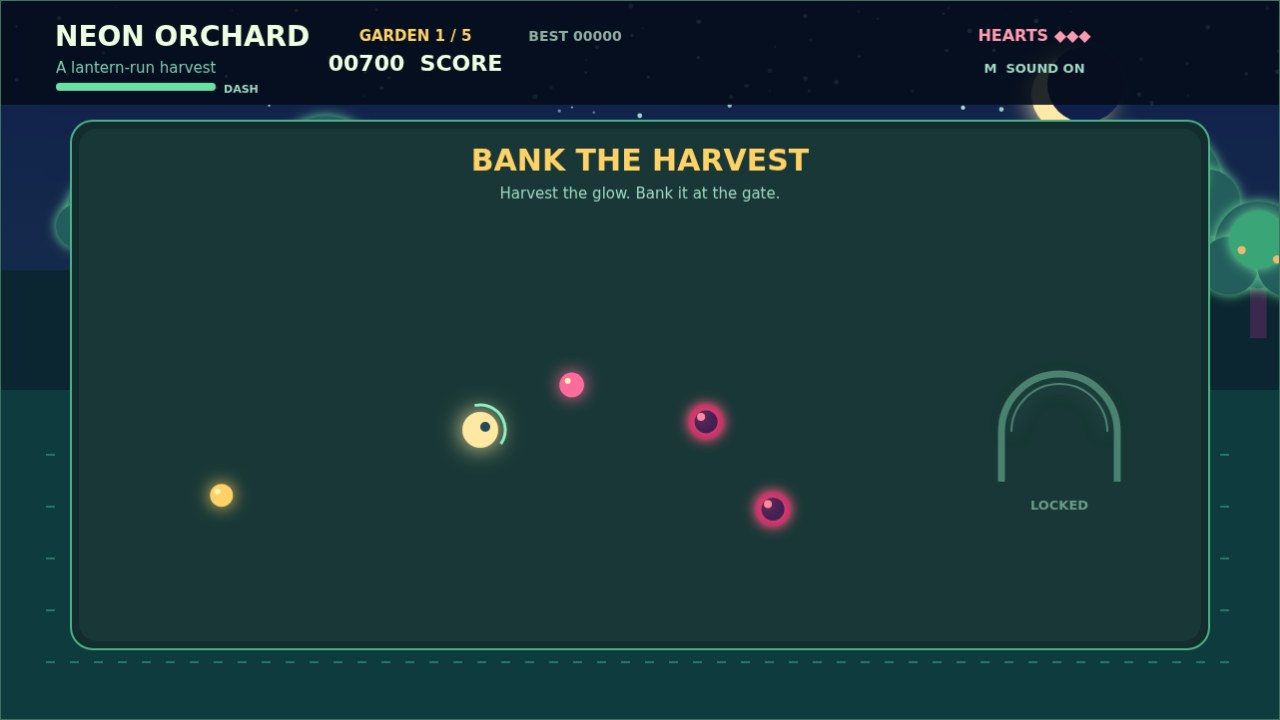
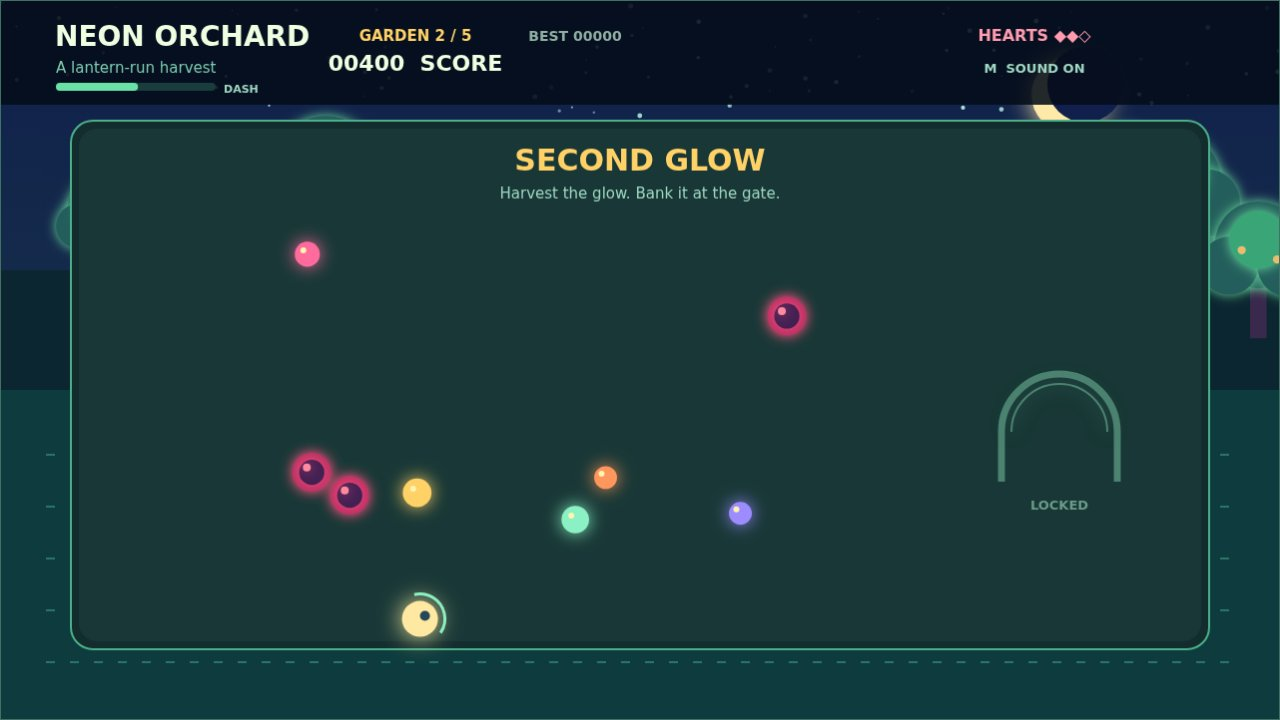
Fix game completion and preview responses; capture normal-play evidence

diff --git a/game/js/game.js b/game/js/game.js
@@ -7,14 +7,14 @@ const keys=new Set();let state='title',last=performance.now(),elapsed=0,level=1,
 const shot=new URLSearchParams(location.search).get('shot');
 function reset(){state='play';elapsed=0;level=1;score=0;hearts=3;player={x:260,y:460,r:18,stamina:100,invuln:0};harvests=spawnHarvests(level);vines=spawnVines(level);particles=[];banner='FIRST BLOOM';bannerTime=2;sound.start()}
 function start(){if(state==='title'||state==='over'||state==='win')reset()}
-window.addEventListener('keydown',e=>{keys.add(e.code);if(['Space','ArrowUp','ArrowDown','ArrowLeft','ArrowRight'].includes(e.code))e.preventDefault();if(e.code==='Enter')start();if(e.code==='KeyM')sound.toggle()});window.addEventListener('keyup',e=>keys.delete(e.code));canvas.addEventListener('pointerdown',()=>{sound.start();if(state!=='play')start()});
+window.addEventListener('keydown',e=>{keys.add(e.code);if(['Space','ArrowUp','ArrowDown','ArrowLeft','ArrowRight'].includes(e.code))e.preventDefault();if(e.code==='Enter')start();if(e.code==='KeyM')sound.toggle()});window.addEventListener('keyup',e=>keys.delete(e.code));window.addEventListener('blur',()=>keys.clear());canvas.addEventListener('pointerdown',()=>{sound.start();if(state!=='play')start()});
 function burst(x,y,color){for(let i=0;i<14;i++)particles.push({x,y,vx:(Math.random()-.5)*130,vy:(Math.random()-.5)*130,life:.6,color})}
-function nextLevel(){level++;if(level>5){state='win';best=Math.max(best,score);localStorage.setItem('neon-orchard-best',best);sound.win();return}harvests=spawnHarvests(level);vines=spawnVines(level);player.x=260;player.y=460;banner=['SECOND GLOW','DEEPER SHADE','VINE CRESCENDO','FINAL HARVEST'][level-2];bannerTime=2;sound.bank()}
+function nextLevel(){if(level===5){state='win';best=Math.max(best,score);localStorage.setItem('neon-orchard-best',best);sound.win();return}level++;harvests=spawnHarvests(level);vines=spawnVines(level);player.x=260;player.y=460;banner=['SECOND GLOW','DEEPER SHADE','VINE CRESCENDO','FINAL HARVEST'][level-2];bannerTime=2;sound.bank()}
 function update(dt){if(state!=='play')return;elapsed+=dt;player.invuln=Math.max(0,player.invuln-dt);let dx=0,dy=0;if(keys.has('KeyA')||keys.has('ArrowLeft'))dx--;if(keys.has('KeyD')||keys.has('ArrowRight'))dx++;if(keys.has('KeyW')||keys.has('ArrowUp'))dy--;if(keys.has('KeyS')||keys.has('ArrowDown'))dy++;const dash=keys.has('Space')&&player.stamina>0;const speed=dash?390:210;if(dash&& (dx||dy)){player.stamina=Math.max(0,player.stamina-dt*55);if(Math.random()<dt*8)sound.dash()}else player.stamina=Math.min(100,player.stamina+dt*25);const mag=Math.hypot(dx,dy)||1;player.x=clamp(player.x+dx/mag*speed*dt,PLAY.x+25,PLAY.x+PLAY.w-25);player.y=clamp(player.y+dy/mag*speed*dt,PLAY.y+25,PLAY.y+PLAY.h-25);for(const v of vines)v.update(dt,player);for(const h of harvests)if(!h.taken&&hitDistance(player,h)<player.r+h.r+5){h.taken=true;score+=100*level;burst(h.x,h.y,h.color);sound.collect()}if(harvests.every(h=>h.taken)&&hitDistance(player,{x:1060,y:430})<100)nextLevel();for(const v of vines)if(player.invuln<=0&&hitDistance(player,v)<player.r+v.r*.7){hearts--;player.invuln=1.4;burst(player.x,player.y,'#ff557f');sound.hit();if(hearts<=0){state='over';best=Math.max(best,score);localStorage.setItem('neon-orchard-best',best)}}for(const p of particles){p.x+=p.vx*dt;p.y+=p.vy*dt;p.life-=dt}particles=particles.filter(p=>p.life>0);bannerTime=Math.max(0,bannerTime-dt)}
 function hud(){const c=ctx;c.fillStyle='rgba(5,13,25,.88)';c.fillRect(0,0,W,104);label(c,'NEON ORCHARD',54,45,28,'#efffe1','left','800');label(c,'A lantern-run harvest',55,72,15,'#7bcbb0','left','500');label(c,`GARDEN ${level} / 5`,415,40,15,'#ffd166','center','800');label(c,`${score.toString().padStart(5,'0')}  SCORE`,415,70,22,'#efffe1','center','800');label(c,`BEST ${best.toString().padStart(5,'0')}`,575,40,14,'#8faea3','center','600');label(c,`HEARTS ${'◆'.repeat(hearts)}${'◇'.repeat(3-hearts)}`,1035,40,16,'#ff9bb0','center','800');label(c,sound.muted?'M  SOUND OFF':'M  SOUND ON',1035,72,13,'#9ed7c2','center','600');c.fillStyle='#193c3c';rounded(c,55,82,160,8,4);c.fillStyle='#69e0a6';rounded(c,55,82,160*(player.stamina/100),8,4);label(c,'DASH',223,92,11,'#9ed7c2','left','700')}
 function playerDraw(){const c=ctx;if(player.invuln>0&&Math.floor(player.invuln*12)%2===0)return;glow(c,'#fff0a6',24);c.fillStyle='#ffe8a1';circle(c,player.x,player.y,player.r);clearGlow(c);c.fillStyle='#26485b';circle(c,player.x+5,player.y-3,5);c.strokeStyle='#8bf0c3';c.lineWidth=3;c.beginPath();c.arc(player.x,player.y,player.r+7,-1.8,.6);c.stroke()}
-function overlay(title,sub,cta){const c=ctx;c.fillStyle='rgba(4,12,26,.8)';c.fillRect(0,0,W,H);glow(c,'#8bf0c3',30);label(c,title,W/2,260,70,'#efffe1','center','900');clearGlow(c);label(c,sub,W/2,315,22,'#a9e9c9','center','500');c.fillStyle='#ffd166';rounded(c,W/2-145,370,290,62,14);label(c,cta,W/2,410,20,'#132331','center','800');label(c,'WASD / ARROWS  move   •   SPACE  dash   •   M  mute',W/2,500,16,'#9ed7c2','center','600');label(c,'Collect every fruit, then reach the MOON GATE.',W/2,535,15,'#709d8d','center','500')}
+function overlay(title,sub,cta){const c=ctx;c.fillStyle='rgba(4,12,26,.8)';c.fillRect(0,0,W,H);glow(c,'#8bf0c3',30);label(c,title,W/2,260,70,'#efffe1','center','900');clearGlow(c);label(c,sub,W/2,315,22,'#a9e9c9','center','500');c.fillStyle='#ffd166';rounded(c,W/2-245,370,490,62,14);label(c,cta,W/2,410,20,'#132331','center','800');label(c,'WASD / ARROWS  move   •   SPACE  dash   •   M  mute',W/2,500,16,'#9ed7c2','center','600');label(c,'Collect every fruit, then reach the MOON GATE.',W/2,535,15,'#709d8d','center','500')}
 function draw(){scene.draw(elapsed,level);scene.drawGate(state==='play'&&harvests.filter(h=>h.taken).length===harvests.length);for(const h of harvests)h.draw(ctx,elapsed);for(const v of vines)v.draw(ctx,elapsed);for(const p of particles){ctx.globalAlpha=Math.max(0,p.life/.6);ctx.fillStyle=p.color;circle(ctx,p.x,p.y,4+p.life*5)}ctx.globalAlpha=1;if(state==='play')playerDraw();hud();if(bannerTime>0&&state==='play'){label(ctx,banner,W/2,170,30,'#ffd166','center','900');label(ctx,'Harvest the glow. Bank it at the gate.',W/2,198,15,'#9ed7c2','center','500')}if(state==='title'){scene.drawGate(false);overlay('NEON ORCHARD','A five garden midnight harvest','PRESS ENTER  /  CLICK TO GROW')}if(state==='over')overlay('THE VINES WON',`Final score  ${score}   •   Best  ${best}`,'PRESS ENTER  /  CLICK TO RETRY');if(state==='win')overlay('ORCHARD IN BLOOM',`Five gardens banked  •  Score  ${score}`,'PRESS ENTER  /  CLICK TO PLAY AGAIN')}
 function frame(now){const dt=Math.min(2,Math.max(0,(now-last)/1000));last=now;for(let remaining=dt;remaining>0;remaining-=1/60)update(Math.min(remaining,1/60));draw()}
 if(shot==='start'){state='title';harvests=spawnHarvests(level);vines=spawnVines(level)}else if(shot==='play'){reset();for(const h of harvests.slice(2))h.taken=true;player.x=480;player.y=430;score=700;banner='BANK THE HARVEST';bannerTime=1.4}else if(shot==='win'){reset();state='win';score=5200;level=5}else{harvests=spawnHarvests(level);vines=spawnVines(level)}
-window.__DBG=()=>({state,level,score,hearts,player:{...player},fruit:harvests.map(h=>({x:h.x,y:h.y,taken:h.taken})),muted:sound.muted,harvests:harvests.filter(h=>h.taken).length});requestAnimationFrame(frame);setInterval(()=>frame(performance.now()),16);
+window.__DBG=()=>({state,level,score,hearts,player:{...player},fruit:harvests.map(h=>({x:h.x,y:h.y,taken:h.taken})),vines:vines.map(v=>({x:v.x,y:v.y,r:v.r})),muted:sound.muted,harvests:harvests.filter(h=>h.taken).length});requestAnimationFrame(frame);setInterval(()=>frame(performance.now()),16);

diff --git a/serve.ts b/serve.ts
@@ -1,12 +1,19 @@
 import { createServer } from 'node:http';
 import { readFile } from 'node:fs/promises';
-import { extname, join, normalize } from 'node:path';
+import { extname, join, relative, resolve } from 'node:path';
 const root = join(import.meta.dirname, 'game');
-const types: Record<string,string> = { '.html':'text/html', '.js':'text/javascript', '.css':'text/css' };
-createServer(async (req,res) => {
-  const url = new URL(req.url ?? '/', 'http://localhost');
-  const file = normalize(join(root, url.pathname === '/' ? 'index.html' : url.pathname));
-  if (!file.startsWith(root)) { res.writeHead(403); res.end(); return; }
-  try { const data = await readFile(file); res.writeHead(200, {'content-type': types[extname(file)] ?? 'application/octet-stream'}); res.end(data); }
-  catch { res.writeHead(404); res.end('Not found'); }
+const types: Record<string, string> = { '.html': 'text/html', '.js': 'text/javascript', '.css': 'text/css' };
+createServer(async (req, res) => {
+  let pathname: string;
+  try { pathname = decodeURIComponent(new URL(req.url ?? '/', 'http://localhost').pathname); }
+  catch { res.writeHead(400).end('Bad request'); return; }
+  const file = resolve(root, '.' + (pathname === '/' ? '/index.html' : pathname));
+  if (relative(root, file).startsWith('..')) { res.writeHead(403).end('Forbidden'); return; }
+  let data: Buffer;
+  try { data = await readFile(file); }
+  catch { if (!res.destroyed) res.writeHead(404).end('Not found'); return; }
+  // Only a failed read is a 404; never try to send headers twice.
+  if (res.destroyed) return;
+  res.writeHead(200, { 'content-type': types[extname(file)] ?? 'application/octet-stream' });
+  res.end(req.method === 'HEAD' ? undefined : data);
 }).listen(8080, '127.0.0.1', () => console.log('Neon Orchard at http://localhost:8080'));

diff --git a/game/index.html b/game/index.html
@@ -1,3 +1,3 @@
 <!doctype html>
-<html lang="en"><head><meta charset="utf-8"><meta name="viewport" content="width=device-width,initial-scale=1"><title>Neon Orchard</title><link rel="stylesheet" href="./orchard.css"></head>
+<html lang="en"><head><meta charset="utf-8"><meta name="viewport" content="width=device-width,initial-scale=1"><title>Neon Orchard</title><link rel="icon" href="data:,"><link rel="stylesheet" href="./orchard.css"></head>
 <body><main id="game-shell"><canvas id="orchard" width="1280" height="720" aria-label="Neon Orchard game"></canvas><div id="hint" aria-live="polite"></div></main><script type="module" src="./js/game.js"></script></body></html>

diff --git a/EVALUATION.md b/EVALUATION.md
@@ -1,17 +1,22 @@
 # Evaluation
 
-## Chosen skills
+## Applied workflows
+- makefun-bounties/SKILL.md and references/hermes-routing.md, competitive-quality.md, game-entries.md: full rules read, upload-mode provenance, per-entry lock, exact output comparison, screenshot constraints, no submission.
+- software-development/systematic-debugging/SKILL.md: isolated the server's broad catch and tested normal, missing, malformed and HEAD requests.
+- engineering/browser-testing-with-devtools/SKILL.md: actual Chrome input, read-only state observation, resource inspection and viewport measurements.
 
-- `makefun-bounties` and `references/competitive-quality.md`: applied the current best-game-01 rules, upload transcript mode, dossier limits, screenshot evidence requirements, and no-submit boundary.
-- `makefun-bounties` and `references/game-entries.md`: applied offline static delivery, visible complete loop, readable spawn framing, deterministic shot hooks, and hidden-tab-safe timing.
-- `browser-testing-with-devtools`: applied real browser checks for gameplay state, input, console cleanliness, and screenshots.
+## Verified results
+- Default URL, no shot parameters or game-state overrides: input-only route completed gardens 1–5, collected all 30 fruit, won with 10,000 points and two hearts. Evidence: evaluation/best-game-01-neon-orchard/foreground-play.json outside this repository. Earlier routes lost naturally in garden three; loss/retry verified.
+- Screenshots are real browser renders at 1280×720. Cover is actual garden-two play, title is default startup, victory is actual five-garden completion. Existing optional shot hooks are supplemental only and are not deterministic simulation tests.
+- Enter starts/restarts, arrow movement and Space dash operate, M changes muted state. Blur clears held movement keys.
+- CTA measured widths 367.34, 367.96 and 430.43 pixels fit the corrected 490-pixel button.
+- Layouts 1280×720, 1024×768, 800×600 and 390×844 have no page overflow. Mobile is scaled display only; the competition requires keyboard/mouse desktop play.
+- All seven game resources returned 200 with no external asset requests. Error-event capture reported none; exhaustive DevTools console-warning collection was not available.
+- Fixed preview passed GET /, HEAD /, GET /missing (404), malformed escape (400), JS asset and another GET / without exiting. Prior headers-sent crash did not reproduce; the broad catch that could send a second header response was removed.
+- Node 26.12.1 host output runs matched byte-for-byte across all 11 files. This is host validation, not the sealed server grade or Node 22 container run.
 
-## Design target
-
-Neon Orchard is an original browser arcade game built for the judge's visible criteria: a clear five-harvest progression, an active risk/reward choice between quick fruit and safe banking, escalating sentry vines, a win screen with restart, a loss screen with retry, a readable HUD, procedural sound with mute, and a distinct dusk orchard palette.
-
-## Evidence plan
-
-- `?shot=start`, `?shot=play`, and `?shot=win` render deterministic screenshot scenes from the game's own code.
-- Normal browser play verifies start → movement/dash → collecting → banking → level progression → win or loss → restart.
-- `main.ts` is exercised twice with byte comparison of output trees, then kit `check` validates the dossier and references.
+## Remaining uncertainty
+- Image-analysis service timed out repeatedly, so independent visual review is incomplete; canvas geometry and screenshot bytes were checked instead.
+- No submission or ranking exists. Rank 1/top 10 competitiveness is unproven. Current account status: zero entries, can submit yes, daily 3/3; status hard limit reports 20 while RULES says 10, so parent must reconcile latest server rules before signing.
+- Harness reports Hermes Agent v0.23.1, model hermes, provider custom. No underlying provider identity is invented. Parent must resolve any run-record metadata warning before submission.
+- Bundle/check logs and runtime evidence live in /home/ubuntu/makefun/evaluation/best-game-01-neon-orchard, outside the shipped snapshot.

diff --git a/README.md b/README.md
@@ -4,13 +4,13 @@
 [![rank](https://make.fun/badge/best-game-01/mannamemmna/neon-orchard/rank.svg)](https://make.fun/bounty/best-game-01/leaderboard?utm_source=github&utm_medium=readme&utm_campaign=best-game-01)
 [![reward](https://make.fun/badge/best-game-01/mannamemmna/neon-orchard/reward.svg)](https://make.fun/bounty/best-game-01?utm_source=github&utm_medium=readme&utm_campaign=best-game-01)
 
-A compact arcade garden about risk, rhythm, and banking a perfect harvest. Move the lantern with WASD or arrow keys, dash with Space, and collect glowing fruit while the orchard's sentry vines wake up. Bank three fruit at the moon gate to grow the garden; bank all five harvests to win. Every harvest adds a faster vine, while missed fruit costs a heart. Mute is available in the HUD.
+A compact arcade garden about risk, rhythm, and banking a perfect harvest. Move the lantern with WASD or arrow keys, dash with Space, and collect glowing fruit while the orchard's sentry vines wake up. Collect every fruit (four in the first garden, rising to eight in the last), then enter the moon gate. Bank all five gardens to win. Each garden adds a faster sentry vine; touching a vine costs a heart. Hold Space to dash while stamina lasts, release it to recharge. Press M to toggle sound, and Enter or click to restart after a win or loss.
 
 ## Run it
 
 ```sh
 node serve.ts
-# open http://localhost:8080/game/
+# open http://localhost:8080/
 ```
 
 The game is static and offline: no packages, APIs, fonts, images, or network requests are needed.
